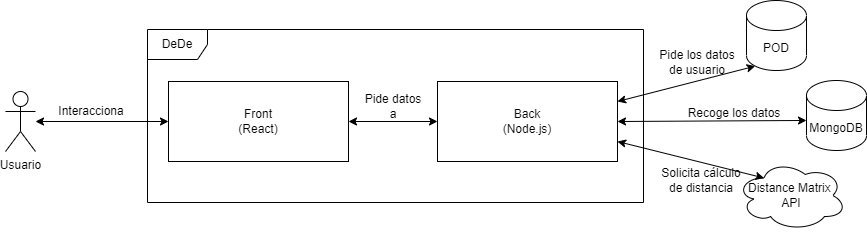
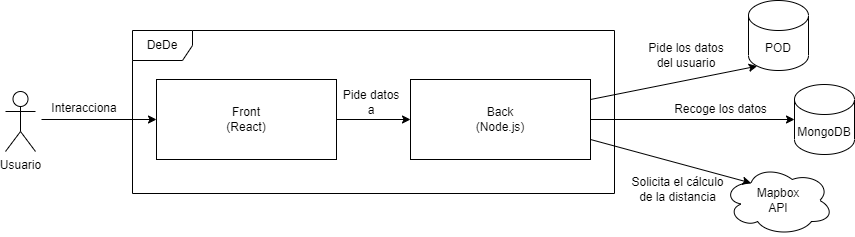
Updates

diff --git a/index.html b/index.html
@@ -811,39 +811,37 @@ propio de cada usuario donde se guarda su información.</p>
 </div>
 <div class="sect2">
 <h3 id="_contexto_técnico">3.2. Contexto Técnico</h3>
+<div class="paragraph">
+<p><span class="image"><img src="./images/3_1-tecnical_context.jpeg.PNG" alt="Tecnical Context Diagram"></span></p>
+</div>
 <table class="tableblock frame-all grid-all stretch">
 <colgroup>
-<col style="width: 50%;">
-<col style="width: 50%;">
+<col style="width: 20%;">
+<col style="width: 40%;">
+<col style="width: 40%;">
 </colgroup>
+<thead>
+<tr>
+<th class="tableblock halign-left valign-top">Tecnología</th>
+<th class="tableblock halign-left valign-top">Descripción</th>
+<th class="tableblock halign-left valign-top">SOLID</th>
+</tr>
+</thead>
 <tbody>
 <tr>
-<td class="tableblock halign-left valign-top"><p class="tableblock">Tecnología</p></td>
-<td class="tableblock halign-left valign-top"><p class="tableblock">Descripción</p></td>
-</tr>
-<tr>
-<td class="tableblock halign-left valign-top"><p class="tableblock">SOLID</p></td>
 <td class="tableblock halign-left valign-top"><p class="tableblock">Usados para respetar la privacidad de los clientes</p></td>
-</tr>
-<tr>
 <td class="tableblock halign-left valign-top"><p class="tableblock">MongoDB</p></td>
 <td class="tableblock halign-left valign-top"><p class="tableblock">Sistema de base de datos NoSQL usado para almacenar los datos de los usuarios</p></td>
 </tr>
 <tr>
 <td class="tableblock halign-left valign-top"><p class="tableblock">TypeScript</p></td>
 <td class="tableblock halign-left valign-top"><p class="tableblock">Lenguaje de programación usado para desarrollar la aplicación. Superconjunto de Javascript</p></td>
-</tr>
-<tr>
 <td class="tableblock halign-left valign-top"><p class="tableblock">React</p></td>
-<td class="tableblock halign-left valign-top"><p class="tableblock">Biblioteca Javascript de código abierto diseñada para crear interfaces de usuario con el objetivo de facilitar el desarrollo de aplicaciones en una sola página</p></td>
 </tr>
 <tr>
+<td class="tableblock halign-left valign-top"><p class="tableblock">Biblioteca Javascript de código abierto diseñada para crear interfaces de usuario con el objetivo de facilitar el desarrollo de aplicaciones en una sola página</p></td>
 <td class="tableblock halign-left valign-top"><p class="tableblock">Heroku</p></td>
 <td class="tableblock halign-left valign-top"><p class="tableblock">Plataforma como servicio de computación en la Nube que soporta distintos lenguajes de programación</p></td>
-</tr>
-<tr>
-<td class="tableblock halign-left valign-top"><p class="tableblock">Distance Matrix API</p></td>
-<td class="tableblock halign-left valign-top"><p class="tableblock">API que nos devuelve información básica del recorrido que conecta dos direcciones</p></td>
 </tr>
 </tbody>
 </table>
@@ -890,8 +888,8 @@ propio de cada usuario donde se guarda su información.</p>
 <td class="tableblock halign-left valign-top"><p class="tableblock">Usado para desplegar la aplicación web</p></td>
 </tr>
 <tr>
-<td class="tableblock halign-left valign-top"><p class="tableblock">Distance Matrix</p></td>
-<td class="tableblock halign-left valign-top"><p class="tableblock">Calcula la distancia del envío</p></td>
+<td class="tableblock halign-left valign-top"><p class="tableblock">MapBox Api</p></td>
+<td class="tableblock halign-left valign-top"><p class="tableblock">Calcula la distancia desde el centro de distribución hasta el cliente</p></td>
 </tr>
 </tbody>
 </table>
@@ -1022,29 +1020,7 @@ propio de cada usuario donde se guarda su información.</p>
 <div class="sect2">
 <h3 id="_modelo_de_dominio">8.1. Modelo de Dominio</h3>
 <div class="paragraph">
-<p>Principales elementos de DeDe:</p>
-</div>
-<div class="ulist">
-<ul>
-<li>
-<p>Usuario: persona que utiliza la aplicación web.</p>
-</li>
-<li>
-<p>Administrador: persona que se encarga de realizar modificaciones en la aplicación.</p>
-</li>
-<li>
-<p>POD: sistema que almacena la información del usuario. Permite descentralizar los datos del usuario y es éste el que debe proporcionar el acceso a estos datos.</p>
-</li>
-<li>
-<p>Servidor web: contiene la aplicación web(front) y la API REST(back).</p>
-</li>
-<li>
-<p>Base de Datos: alojada en MongoDB y contendrá todos los productos de la tienda.</p>
-</li>
-<li>
-<p>Distance Matrix: nos da información de la distancia que separa las direcciones de origen y de entrega del pedido.</p>
-</li>
-</ul>
+<p><span class="image"><img src="./images/08_modelo_dominio.png" alt="Modelo de dominio"></span></p>
 </div>
 </div>
 <div class="sect2">
@@ -1063,7 +1039,7 @@ se mostrará un mensaje de error y seguirá en la vista de identificación.</p>
 <div class="sect2">
 <h3 id="_internacionalización">8.4. <em>Internacionalización</em></h3>
 <div class="paragraph">
-<p>La aplicación estará en idioma español aunque el equipo está valorando internacionalizar la aplicación para que esté también disponible en idioma inglés</p>
+<p>La aplicación estará en idioma español, no se realizará en otro idioma.</p>
 </div>
 <div style="page-break-after: always;"></div>
 </div>
@@ -1072,26 +1048,36 @@ se mostrará un mensaje de error y seguirá en la vista de identificación.</p>
 <div class="sect1">
 <h2 id="section-design-decisions">9. Decisiones de Diseño</h2>
 <div class="sectionbody">
-<div class="ulist">
-<ul>
-<li>
-<p>ADR 1: Almacenar localizaciones en una base de datos centralizada.</p>
-<div class="ulist">
-<ul>
-<li>
-<p>Contexto
-Debemos almacenar los datos de la cuenta del usuario para validar cuando estos se logean
-que es una cuenta existente y para almacenar las nuevas cuentas que los usuarios creen.</p>
-</li>
-<li>
-<p>Decisión:
-Hemos decidido almacear dichos datos en una base de datos centralizada.</p>
-</li>
-</ul>
-</div>
-</li>
-</ul>
-</div>
+<table class="tableblock frame-all grid-all stretch">
+<colgroup>
+<col style="width: 33.3333%;">
+<col style="width: 66.6667%;">
+</colgroup>
+<thead>
+<tr>
+<th class="tableblock halign-left valign-top">Contexto</th>
+<th class="tableblock halign-left valign-top">Decision</th>
+</tr>
+</thead>
+<tbody>
+<tr>
+<td class="tableblock halign-left valign-top"><p class="tableblock">Debemos almacenar los datos de la cuenta del usuario para validar cuando estos se logean
+que es una cuenta existente y para almacenar las nuevas cuentas que los usuarios creen.
+Así almacenaremos también información relativa a los productos que ofrecerá nuestra web o
+los pedidos</p></td>
+<td class="tableblock halign-left valign-top"><p class="tableblock">Hemos decidido almacear dichos datos en una base de datos centralizada. Finalmente utilizaremos
+MongoDB como base de datos.</p></td>
+</tr>
+<tr>
+<td class="tableblock halign-left valign-top"><p class="tableblock">Necesitamos una API la cual nos calcule la distancia entre el centro de distribución y la localización del cliente.</p></td>
+<td class="tableblock halign-left valign-top"><p class="tableblock">Utilizaremos la API de Mapbox para calcular el coste de envío del pedido</p></td>
+</tr>
+<tr>
+<td class="tableblock halign-left valign-top"><p class="tableblock">Necesitamos obtener los datos de la dirección del usuario que realiza el pedido sin almacenarlos en la base de datos</p></td>
+<td class="tableblock halign-left valign-top"><p class="tableblock">Utilizaremos un sistema basado en PODS para obtener estos datos del cliente.</p></td>
+</tr>
+</tbody>
+</table>
 <div style="page-break-after: always;"></div>
 </div>
 </div>
@@ -1205,6 +1191,26 @@ atención a que la deuda no se dispare.</p>
 <tr>
 <td class="tableblock halign-left valign-top"><p class="tableblock">Pod</p></td>
 <td class="tableblock halign-left valign-top"><p class="tableblock">Almacenamiento personal de datos alojado en un servidor elegido por el usuario.</p></td>
+</tr>
+<tr>
+<td class="tableblock halign-left valign-top"><p class="tableblock">Descentralizado</p></td>
+<td class="tableblock halign-left valign-top"><p class="tableblock">Los usuarios pueden elegir donde almacenar sus datos</p></td>
+</tr>
+<tr>
+<td class="tableblock halign-left valign-top"><p class="tableblock">MongoDB</p></td>
+<td class="tableblock halign-left valign-top"><p class="tableblock">Sistema de base de datos NoSQL, orientado a documentos y de código abierto.</p></td>
+</tr>
+<tr>
+<td class="tableblock halign-left valign-top"><p class="tableblock">NoSql</p></td>
+<td class="tableblock halign-left valign-top"><p class="tableblock">Base de datos no relacional</p></td>
+</tr>
+<tr>
+<td class="tableblock halign-left valign-top"><p class="tableblock">API</p></td>
+<td class="tableblock halign-left valign-top"><p class="tableblock">Protocolo que se utiliza para diseñar  el software de las aplicaciones.</p></td>
+</tr>
+<tr>
+<td class="tableblock halign-left valign-top"><p class="tableblock">React</p></td>
+<td class="tableblock halign-left valign-top"><p class="tableblock">Biblioteca Javascrypt que nos ayuda a crear interfaces de usuario de forma sencilla.</p></td>
 </tr>
 </tbody>
 </table>
